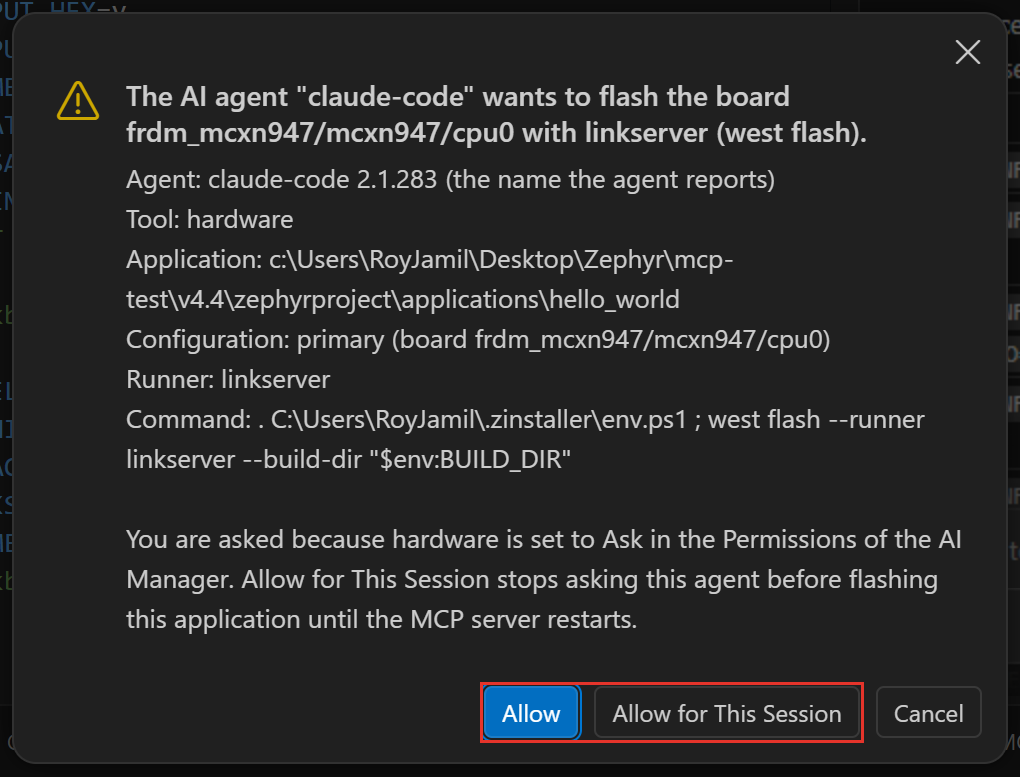
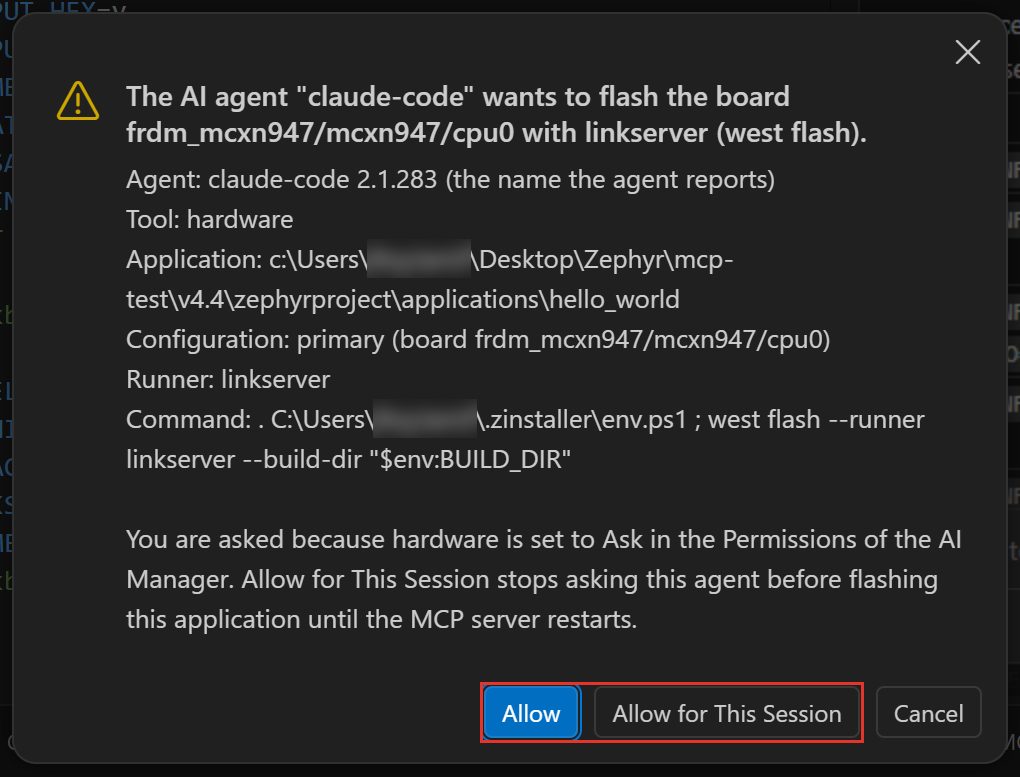
Blur the user name in screenshots and refine the AI Manager docs and tutorial

Changed region(s): [[0.3647, 0.3089, 0.4863, 0.3707], [0.3647, 0.5251, 0.4863, 0.556]]

diff --git a/scripts/annotate_screenshots.py b/scripts/annotate_screenshots.py
@@ -1,5 +1,6 @@
 #!/usr/bin/env python3
-"""Crop raw screenshots, draw red highlight rectangles, write final doc images.
+"""Crop raw screenshots, blur private text, draw red highlight rectangles,
+write final doc images.
 
 Usage:
     python3 scripts/annotate_screenshots.py <spec.json> [--only ID]
@@ -15,6 +16,7 @@ output is cropped or downscaled.
         "out": "static/img/zw/workspace/zw_west_workspace_import.png",
         "crop": [120, 80, 900, 700],          # optional [x, y, w, h]
         "rects": [[400, 500, 180, 28]],       # optional red boxes [x, y, w, h]
+        "blur": [[250, 310, 96, 26]],         # optional boxes to blur, such as a user name
         "max_width": 1200                     # optional downscale target
       }
     ]
@@ -26,17 +28,29 @@ import json
 import os
 import sys
 
-from PIL import Image, ImageDraw
+from PIL import Image, ImageDraw, ImageFilter
 
 RED = "#E5342B"
 LINE_PX = 3          # rectangle stroke at final output size
 PAD_PX = 4           # breathing room around the highlighted element
+BLUR_PAD_PX = 2      # raw pixels blurred around each blur box, for anti-aliasing
+
+
+def blur(img, box):
+    x, y, w, h = box
+    x0, y0 = max(0, x - BLUR_PAD_PX), max(0, y - BLUR_PAD_PX)
+    x1, y1 = min(img.width, x + w + BLUR_PAD_PX), min(img.height, y + h + BLUR_PAD_PX)
+    region = img.crop((x0, y0, x1, y1))
+    radius = max(5, round((y1 - y0) / 5))
+    img.paste(region.filter(ImageFilter.GaussianBlur(radius)), (x0, y0))
 
 
 def process(job, repo_root):
     src = os.path.join(repo_root, job["src"])
     out = os.path.join(repo_root, job["out"])
     img = Image.open(src).convert("RGB")
+    for box in job.get("blur", []):
+        blur(img, box)
 
     ox = oy = 0
     if "crop" in job:

diff --git a/docs/tutorials/ai-agent-hardware-in-the-loop.md b/docs/tutorials/ai-agent-hardware-in-the-loop.md
@@ -13,12 +13,25 @@ This tutorial follows a typical session with an AI coding agent connected to Wor
 4. Collect data from the board through its shell.
 5. Change the firmware and check the change on the board.
 
+:::tip
+Each step below is a separate request, to show what happens at each stage. You do not need to split the work: the agent can do the whole session from a single request, for example:
+
+```text
+Create an application from the Zephyr hello_world sample
+for the FRDM-MCXN947 board. Enable the shell with the kernel commands
+and thread stack usage, flash the board and run kernel stacks.
+Then give the thread closest to overflowing a larger stack,
+flash again and check the result on the board.
+```
+:::
+
 ## Before you start
 
-- A west workspace opened as a folder in VS Code, with a Zephyr SDK that suits it. See [West Workspaces](../documentation/west-workspace.md) and [Toolchains](../documentation/sdk.md).
-- The flash runner of your board installed, LinkServer for the FRDM-MCXN947. See [Install Runners](../documentation/install-runners.md).
+- A west workspace opened as a folder in VS Code. See [West Workspaces](../documentation/west-workspace.md).
 - The board connected over USB. Close any serial monitor that has its port open: a serial port opens in one program at a time.
 - An agent connected to Workbench for Zephyr, with the default Core permissions. See [Connect an agent](../documentation/ai-manager.md#connect-an-agent).
+
+You do not need to install the Zephyr SDK or the flash runner of your board first. When one is missing, the agent installs it when it needs it, after asking you. A few runners are only distributed by their vendor, such as LinkServer, the runner the FRDM-MCXN947 uses by default: for those, the agent gives you the download page, or flashes with another runner the board supports, such as pyOCD, which it can install.
 
 :::tip
 Agent terminals do not come to the front by default. To see each build, flash and serial terminal come to the front as the agent starts it, set `zephyr-workbench.mcp.revealTerminal` to `always`.
@@ -30,7 +43,7 @@ Each request below is one turn of this loop. The agent builds, flashes and reads
 
 ```mermaid
 flowchart TB
-  ask["You ask in plain words"] --> change["Agent changes code or Kconfig"]
+  ask["You ask in plain words"] --> change["Agent changes code, Kconfig<br/>or devicetree overlay"]
   change --> build["Build"]
   build --> flash["Flash the board"]
   flash --> read["Read the serial console,<br/>send shell commands"]
@@ -44,7 +57,8 @@ flowchart TB
 In the agent chat, ask:
 
 ```text
-Create an application from the Zephyr hello_world sample for the FRDM-MCXN947 board, and build it.
+Create an application from the Zephyr hello_world sample
+for the FRDM-MCXN947 board, and build it.
 ```
 
 The agent looks up the sample and the board in the west workspace, then asks to create the application. VS Code shows what it will create and where:
@@ -60,7 +74,8 @@ Click **Allow**. The application appears in the "Applications" view, and the bui
 Ask:
 
 ```text
-Enable the Zephyr shell with the kernel commands and thread stack usage, so I can run kernel stacks on the board. Then rebuild.
+Enable the Zephyr shell with the kernel commands and thread stack usage,
+so I can run kernel stacks on the board. Then rebuild.
 ```
 
 The agent changes the Kconfig options through Workbench for Zephyr, which checks that each value takes effect and writes them in a managed section of `prj.conf`. Under the Core preset this does not ask. Open `prj.conf` to review the section:
@@ -94,7 +109,8 @@ The capture stops by itself after 10 minutes. To stop it earlier, close its term
 Ask:
 
 ```text
-Run kernel stacks on the board. Which thread is closest to overflowing its stack?
+Run kernel stacks on the board.
+Which thread is closest to overflowing its stack?
 ```
 
 The agent sends `kernel stacks` to the Zephyr shell through the running capture. Sending text to the board asks first, with the exact text and the port. Choose **Allow for This Session** to let the agent send more commands on this port without asking.
@@ -106,7 +122,8 @@ The command, and the table the board prints in reply, show in the serial termina
 Ask:
 
 ```text
-Give that thread a larger stack, rebuild, flash and check on the board again.
+Give that thread a larger stack, rebuild, flash
+and check on the board again.
 ```
 
 The agent changes the stack size (for the shell or another system thread, a Kconfig option in `prj.conf`), builds, flashes, runs `kernel stacks` again and compares the usage before and after the change. If you chose **Allow for This Session** in the previous steps, it does this without asking again. Each change is checked on the board, not only in the build.
@@ -124,3 +141,4 @@ The agent changes the stack size (for the shell or another system thread, a Kcon
 - Choose what the agent may do without asking: [Permissions](../documentation/ai-manager.md#choose-what-agents-may-do).
 - Debug on the board with the agent, for example "Start debugging, stop in main, step a few lines and show me the local variables": [Debug Session](../documentation/debug-session.md).
 - More requests to try: the "Examples" tab of the [AI Manager](../documentation/ai-manager.md#try-an-example).
+- Learn to work with AI coding agents on embedded projects: the Ac6 training course [AI-Assisted Embedded Development](https://www.ac6-training.com/en/ai1/ai-assisted-embedded-development).

diff --git a/docs/documentation/ai-manager.md b/docs/documentation/ai-manager.md
@@ -10,10 +10,6 @@ The AI Manager is where you connect your agents, choose what they may do without
 
 ![AI Manager](/img/zw/ai-manager/ai-manager.png)
 
-:::note
-The AI Manager is available from Workbench for Zephyr 4.3.0. Flashing, debugging, installing runners, running commands and the "Examples" tab need 4.3.1 or later. Its MCP server needs VS Code 1.90 or later.
-:::
-
 ## How it works
 
 Agents talk to Workbench for Zephyr through a local MCP server that runs inside VS Code. The agent starts a small bridge program, which forwards each request to the VS Code window that has the application open.
@@ -170,7 +166,7 @@ To follow a full session, from a new application to a board in the loop, see the
 
 ## Zephyr Project MCP
 
-The "Zephyr Project MCP" page connects your agents to the Zephyr Project's own MCP server, run by Kapa.ai. It answers questions from the Zephyr documentation, source code and GitHub activity, with its sources.
+The "Zephyr Project MCP" page connects your agents to the Zephyr Project's own MCP server, run by Kapa.ai at `https://zephyrproject.mcp.kapa.ai`. It answers questions from the Zephyr documentation, source code and GitHub activity, with its sources. The Zephyr documentation describes it in [Kapa.ai Documentation Assistant](https://docs.zephyrproject.org/latest/develop/tools/kapa_ai.html).
 
 It is a hosted service: your questions leave your machine, and the first time an agent uses it you sign in once in your browser. Answers are AI-generated and can be wrong, so check what matters in the documentation.
 
